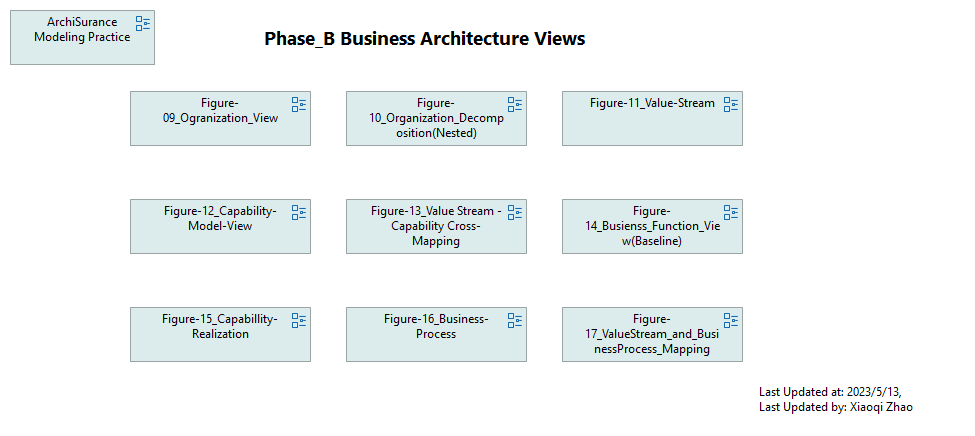
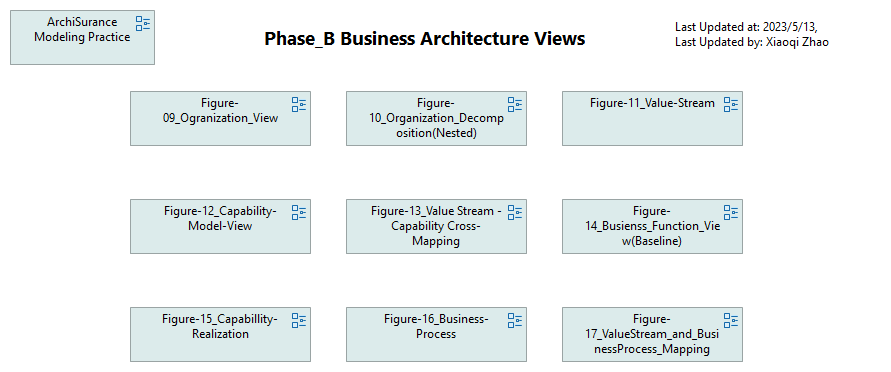
update HTML

diff --git a/ArchiSurance_HTML/id-f0607ad9eb0845a8829f43f5f7c676ff/views/id-01d43bfba30c400eba256bb90426d1e1.html b/ArchiSurance_HTML/id-f0607ad9eb0845a8829f43f5f7c676ff/views/id-01d43bfba30c400eba256bb90426d1e1.html
@@ -53,7 +53,7 @@
 				      <!-- Other diagram objects -->
 				  		<area shape="rect" coords="130,91,311,146" href="../views/id-758fc793629847b692600d86d02c71d9.html"  target="view">
 				      <!-- Other diagram objects -->
-				          <area shape="rect" coords="754,379,965,426" href="../objects/id-a74394a50b854a53b6e2c61f3ddbcd0e.html" target="element" >
+				          <area shape="rect" coords="670,14,881,61" href="../objects/id-a74394a50b854a53b6e2c61f3ddbcd0e.html" target="element" >
 				          <area shape="rect" coords="154,19,695,56" href="../objects/id-702bbd142cfe4b5fb6b78c1c44c37b9e.html" target="element" >
 
 			   </map>
